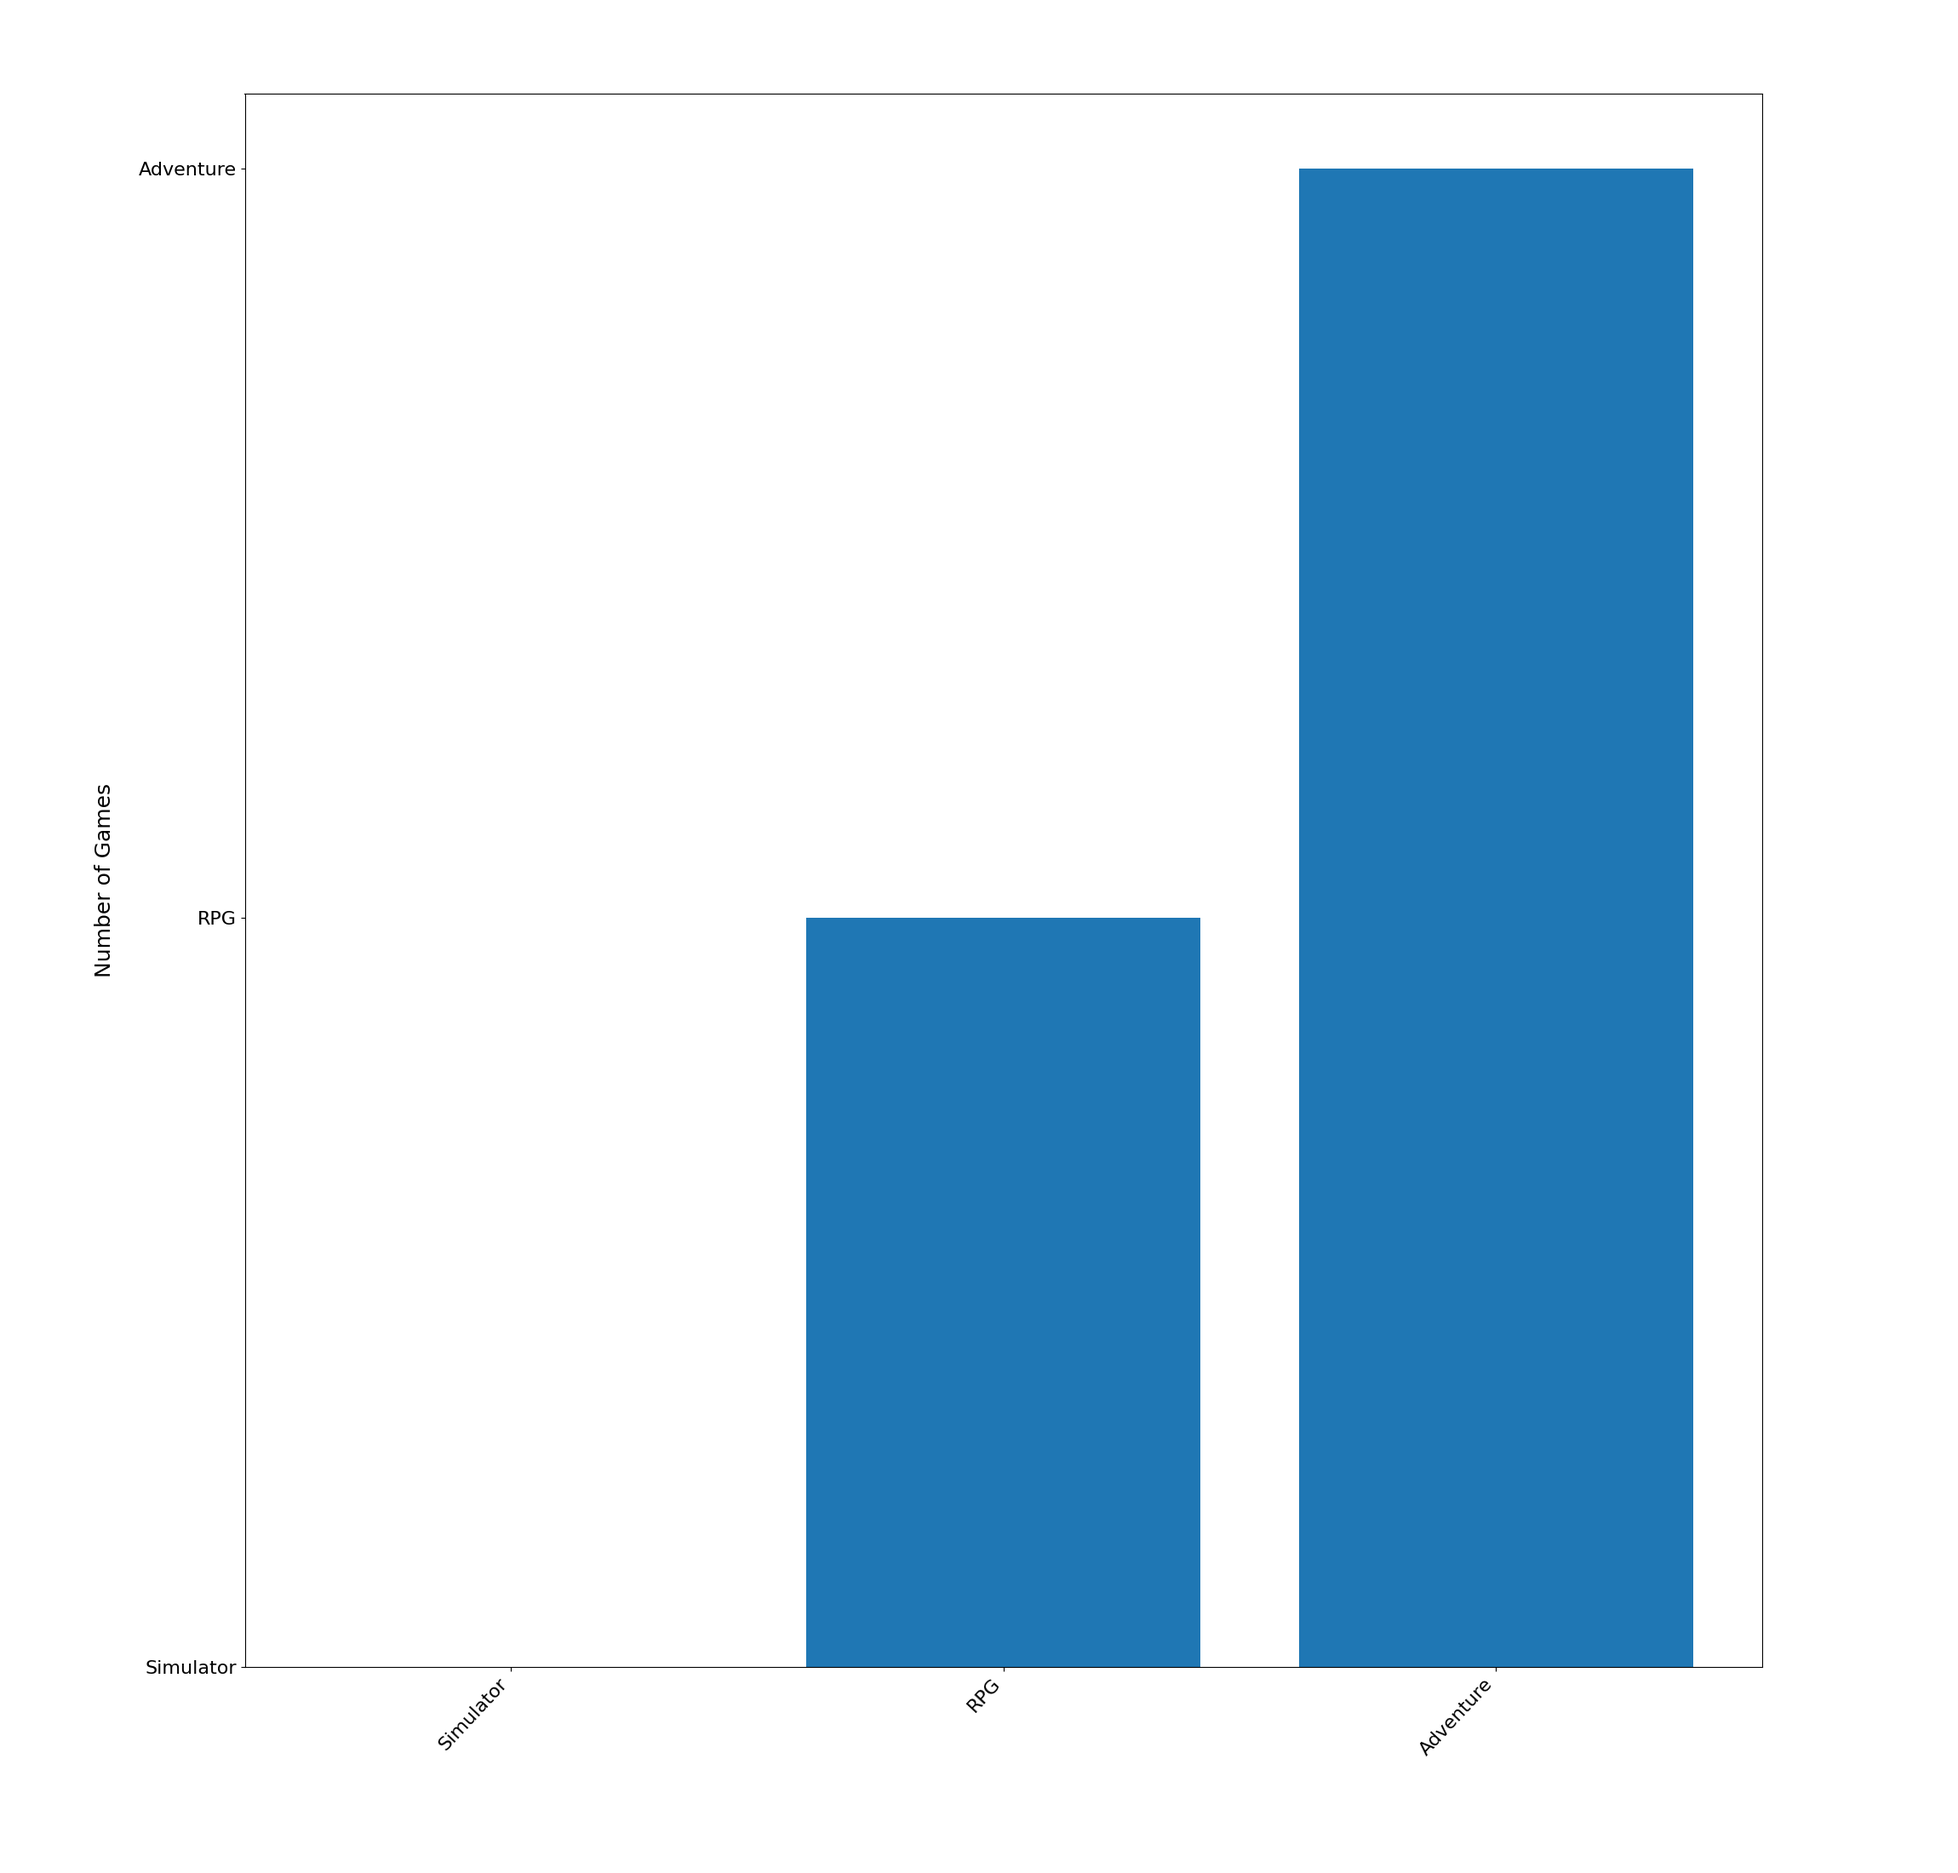
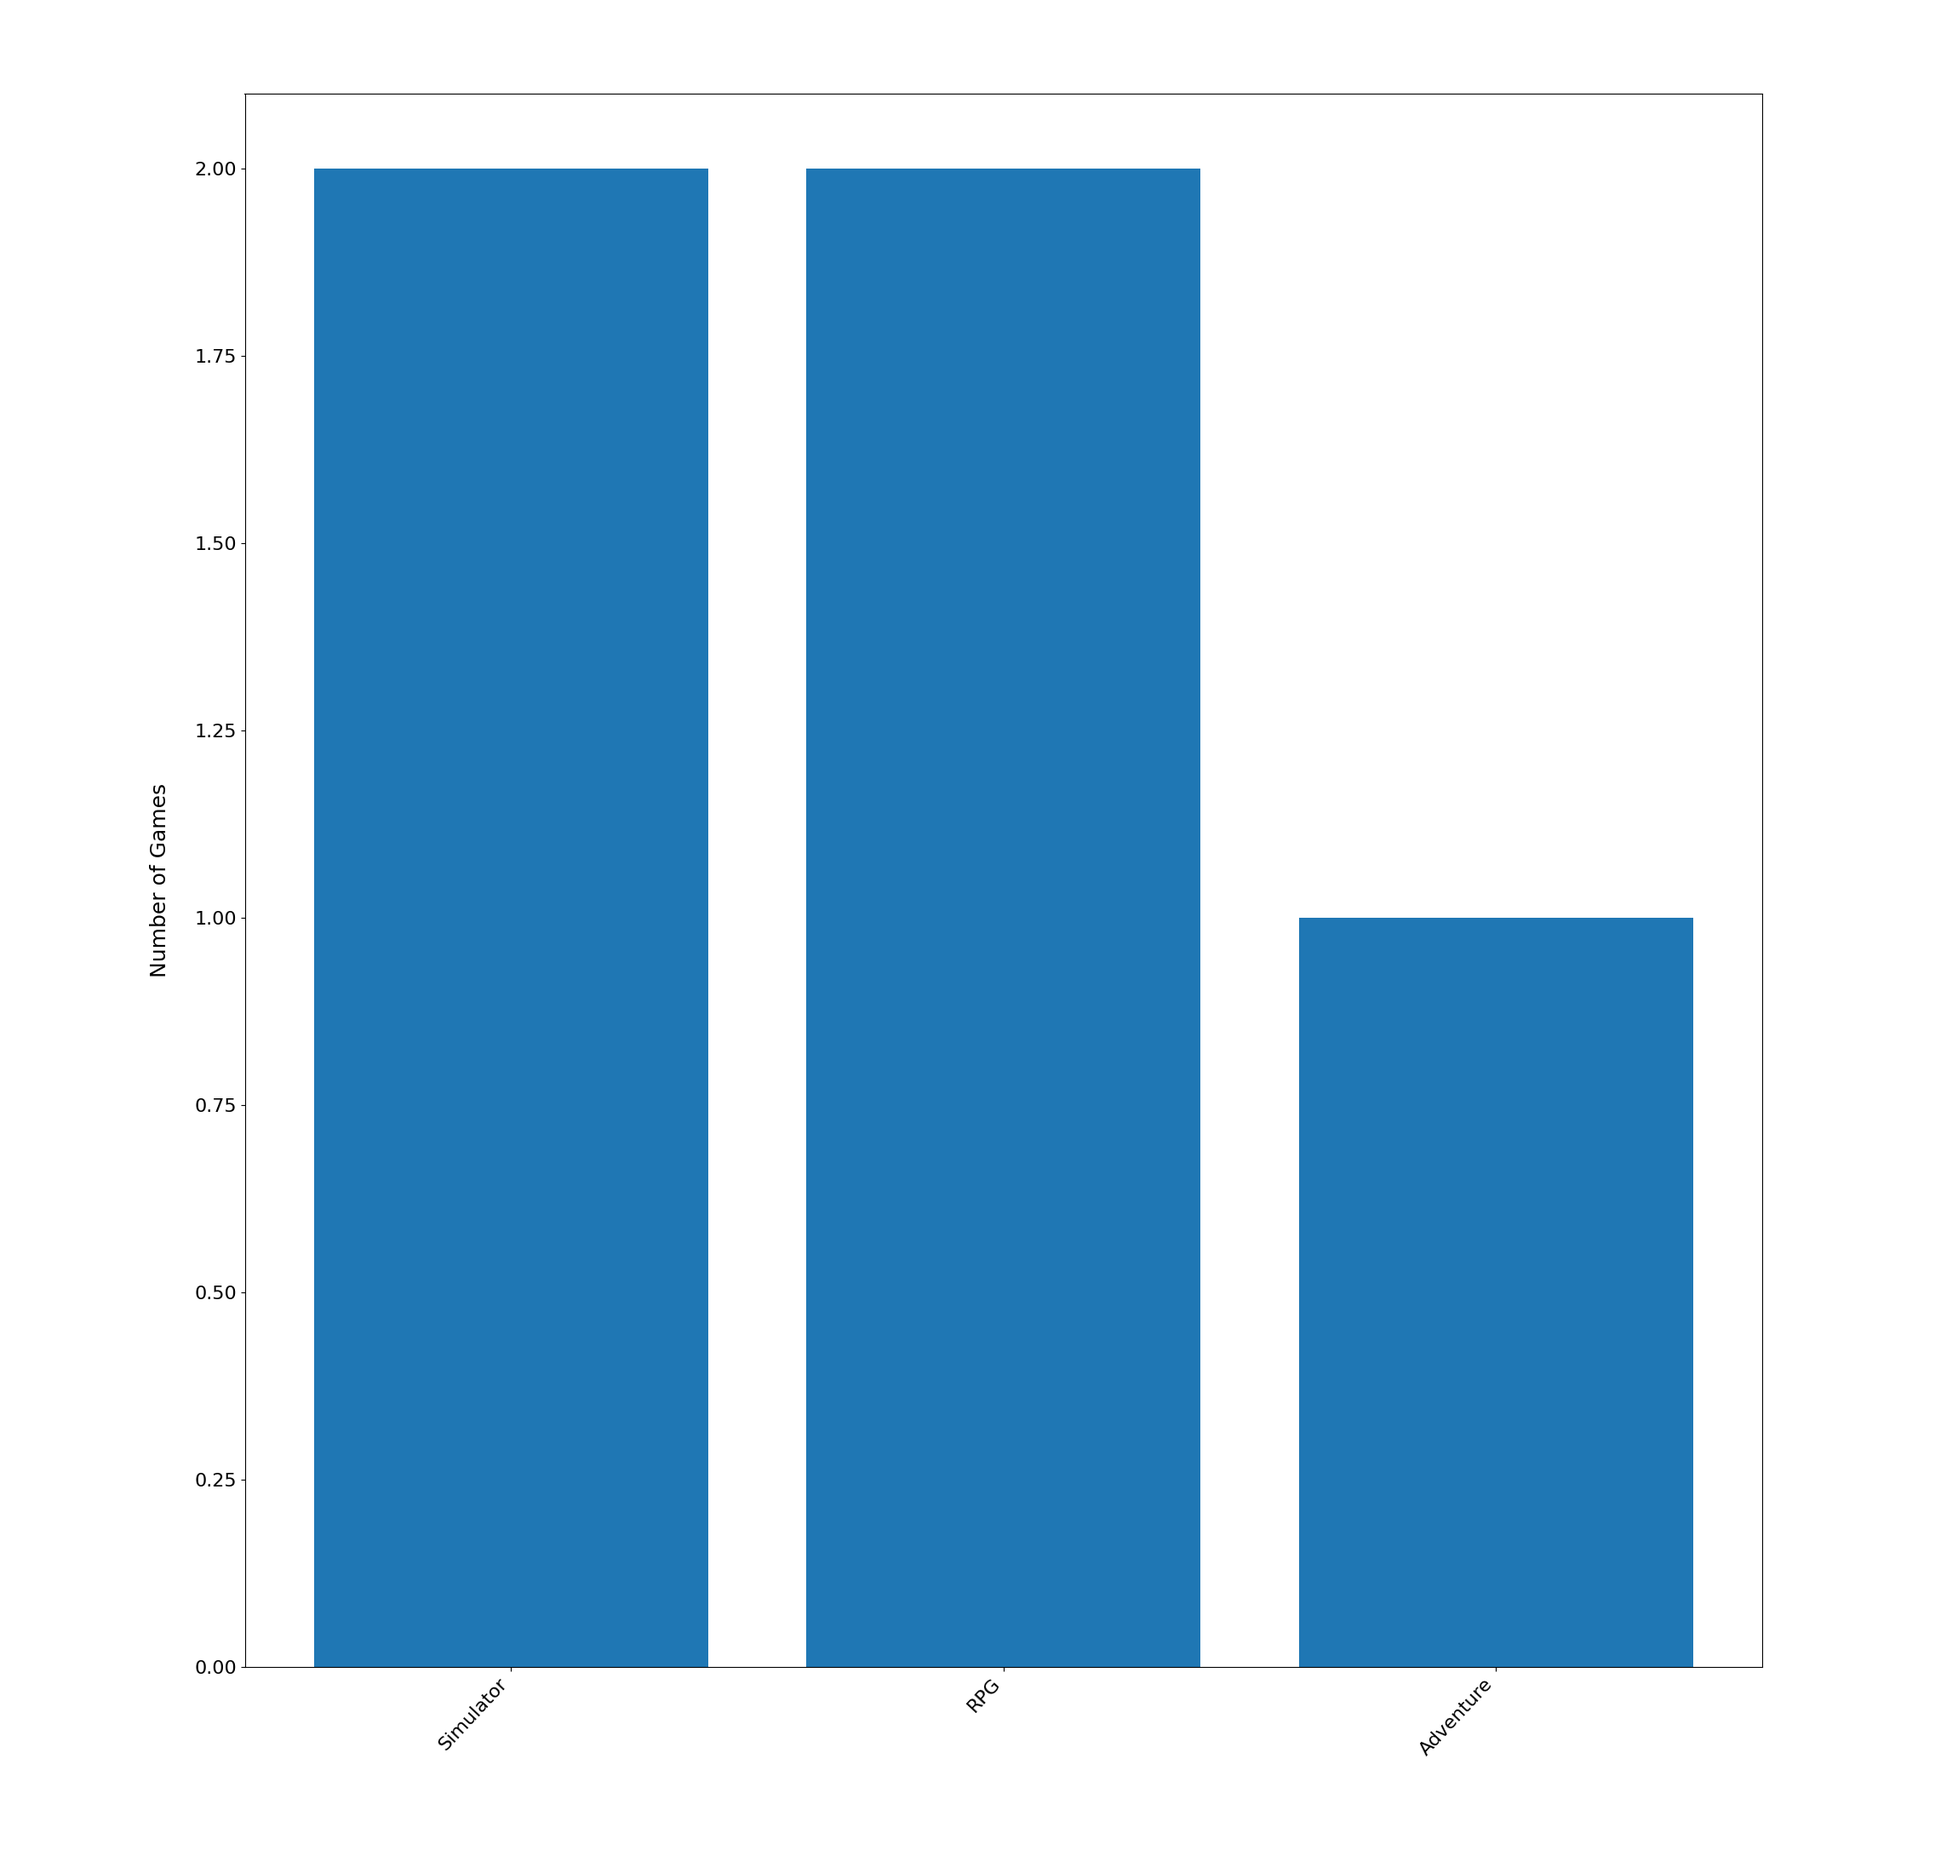
fixed bug when saving the graphs

diff --git a/visualizer.py b/visualizer.py
@@ -62,11 +62,15 @@ class SeanVGODataVisualizer:
 
     # For later visualizations
     def setXAxis(self, dictionary):
-        x_axis = [key for key in dictionary]
+        x_axis = []
+        for key, values in dictionary.items():
+            x_axis.append(key)
         return x_axis
 
     def setYAxis(self, dictionary):
-        y_axis = [value for value in dictionary]
+        y_axis = []
+        for key, values in dictionary.items():
+            y_axis.append(values)
         return y_axis
 
     # Make Plots
